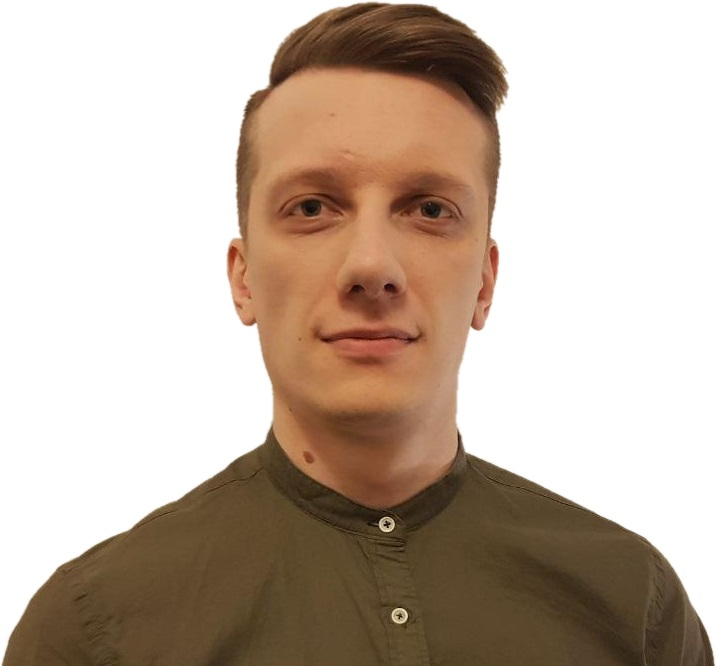
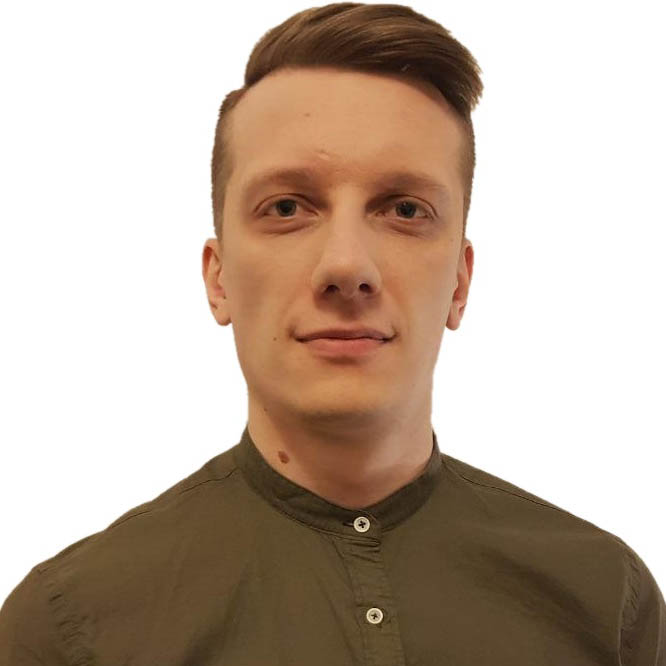
fix photos

diff --git a/ru/index.html b/ru/index.html
@@ -935,7 +935,7 @@
 				<div class="block14-list__item">
 					<div class="block4-item__wrapper">
 						<div class="img">
-							<img src="images/manager1.jpg" alt="image">
+							<img src="images/manager1.jpg" width="181" height="182" alt="image">
 						</div>
 						<div class="about">
 							<div class="name">Косенко Владимир</div>
@@ -962,7 +962,7 @@
 				<div class="block14-list__item">
 					<div class="block4-item__wrapper">
 						<div class="img">
-							<img src="images/manager2.jpg" alt="image">
+							<img src="images/manager2.jpg" width="181" height="182" alt="image">
 						</div>
 						<div class="about">
 							<div class="name">Жуков Андрей</div>
@@ -992,7 +992,7 @@
 				<div class="block14-list__item">
 					<div class="block4-item__wrapper">
 						<div class="img">
-							<img src="images/manager3.jpg" alt="image">
+							<img src="images/manager3.jpg" width="181" height="182" alt="image">
 						</div>
 						<div class="about">
 							<div class="name">Глушков Сергей</div>
@@ -1024,7 +1024,7 @@
 				<div class="block14-list__item">
 					<div class="block4-item__wrapper">
 						<div class="img">
-							<img src="images/skorikov.jpg" alt="image">
+							<img src="images/skorikov.jpg" width="181" height="182" alt="image">
 						</div>
 						<div class="about">
 							<div class="name">Максим Скориков</div>
@@ -1050,7 +1050,7 @@
 				<div class="block14-list__item">
 					<div class="block4-item__wrapper">
 						<div class="img">
-							<img src="images/shalavin.jpg" alt="image">
+							<img src="images/shalavin.jpg" width="181" height="182" alt="image">
 						</div>
 						<div class="about">
 							<div class="name">Максим Шалавин</div>
@@ -1080,7 +1080,7 @@
 				<div class="block14-list__item">
 					<div class="block4-item__wrapper">
 						<div class="img">
-							<img src="images/project-meneger.jpg" alt="image">
+							<img src="images/project-meneger.jpg" width="181" height="182" alt="image">
 						</div>
 						<div class="about">
 							<div class="name"> Иван Филатов</div>
@@ -1099,7 +1099,7 @@
 				<div class="block14-list__item">
 					<div class="block4-item__wrapper">
 						<div class="img">
-							<img src="images/traffic-meneger.jpg" alt="image">
+							<img src="images/traffic-meneger.jpg" width="181" height="182" alt="image">
 						</div>
 						<div class="about">
 							<div class="name">Александр Терехов </div>
@@ -1119,7 +1119,7 @@
 				<div class="block14-list__item">
 					<div class="block4-item__wrapper">
 						<div class="img">
-							<img src="images/product-meneger.jpg" alt="image">
+							<img src="images/product-meneger.jpg" width="181" height="182" alt="image">
 						</div>
 						<div class="about">
 							<div class="name"> Дмитрий Шуваев</div>

diff --git a/index.html b/index.html
@@ -934,7 +934,7 @@
 				<div class="block14-list__item">
 					<div class="block4-item__wrapper">
 						<div class="img">
-							<img src="images/manager1.jpg" alt="image">
+							<img src="images/manager1.jpg" width="181" height="182" alt="image">
 						</div>
 						<div class="about">
 							<div class="name">Vladimir Kosenko</div>
@@ -961,7 +961,7 @@
 				<div class="block14-list__item">
 					<div class="block4-item__wrapper">
 						<div class="img">
-							<img src="images/manager2.jpg" alt="image">
+							<img src="images/manager2.jpg" width="181" height="182" alt="image">
 						</div>
 						<div class="about">
 							<div class="name">Andrey Zhukov </div>
@@ -990,7 +990,7 @@
 				<div class="block14-list__item">
 					<div class="block4-item__wrapper">
 						<div class="img">
-							<img src="images/manager3.jpg" alt="image">
+							<img src="images/manager3.jpg" width="181" height="182" alt="image">
 						</div>
 						<div class="about">
 							<div class="name">Sergey Glushkov </div>
@@ -1022,7 +1022,7 @@
 				<div class="block14-list__item">
 					<div class="block4-item__wrapper">
 						<div class="img">
-							<img src="images/skorikov.jpg" alt="image">
+							<img src="images/skorikov.jpg" width="181" height="182" alt="image">
 						</div>
 						<div class="about">
 							<div class="name">Maksim Skorikov</div>
@@ -1048,7 +1048,7 @@
 				<div class="block14-list__item">
 					<div class="block4-item__wrapper">
 						<div class="img">
-							<img src="images/shalavin.jpg" alt="image">
+							<img src="images/shalavin.jpg" width="181" height="182" alt="image">
 						</div>
 						<div class="about">
 							<div class="name">Maksim Shalavin</div>
@@ -1079,7 +1079,7 @@
 				<div class="block14-list__item">
 					<div class="block4-item__wrapper">
 						<div class="img">
-							<img src="images/project-meneger.jpg" alt="image">
+							<img src="images/project-meneger.jpg" width="181" height="182" alt="image">
 						</div>
 						<div class="about">
 							<div class="name">Ivan Filatov</div>
@@ -1098,7 +1098,7 @@
 				<div class="block14-list__item">
 					<div class="block4-item__wrapper">
 						<div class="img">
-							<img src="images/traffic-meneger.jpg" alt="image">
+							<img src="images/traffic-meneger.jpg" width="181" height="182" alt="image">
 						</div>
 						<div class="about">
 							<div class="name">Alexander Terekhov</div>
@@ -1118,7 +1118,7 @@
 				<div class="block14-list__item">
 					<div class="block4-item__wrapper">
 						<div class="img">
-							<img src="images/product-meneger.jpg" alt="image">
+							<img src="images/product-meneger.jpg" width="181" height="182" alt="image">
 						</div>
 						<div class="about">
 							<div class="name"> Dmitriy Shuvayev </div>
